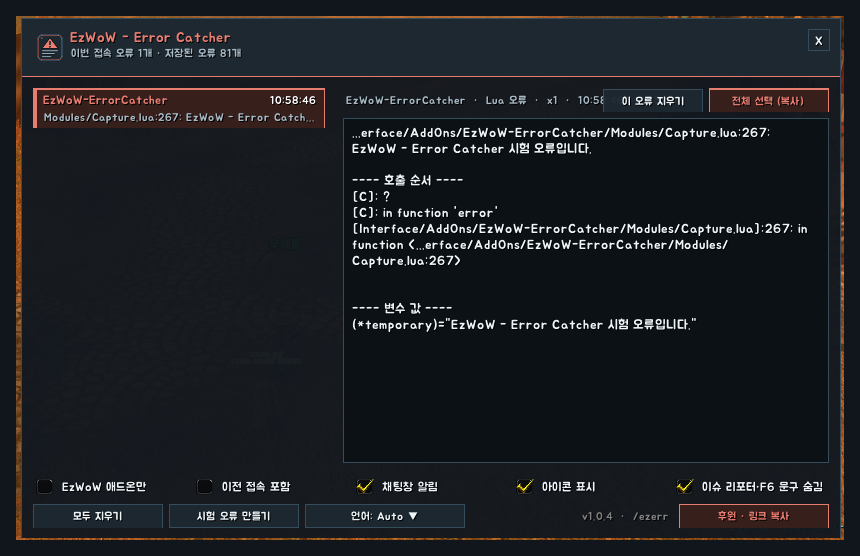
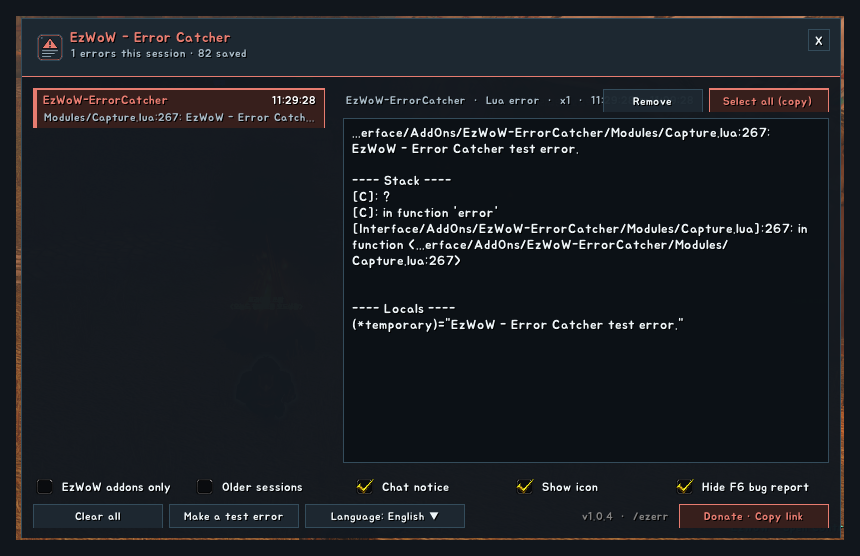
영어 설명용 게임 화면 추가

diff --git a/README.md b/README.md
@@ -37,7 +37,7 @@ Collects Lua errors, blocked addon actions and warnings in a window you can copy
 
 ![Error window](https://raw.githubusercontent.com/qqhrqqhr2/EzWoW-ErrorCatcher/master/docs/images/ui_en.png)
 
-> In-game screenshots (WoW Forever, Korean client). Character and player names and chat text are blurred.
+> In-game screenshots with the addon set to English. The game client is Korean, so game text such as zone, item and spell names stays Korean. Character and player names and chat text are blurred.
 
 - A one-line chat notice (at most every 5 seconds, with the number held back meanwhile) and a counter on the icon when something breaks. Errors in combat are announced once combat ends, so the chat is left alone while fighting.
 - Repeated errors are grouped with a count (x12) and the last time. Errors from older sessions also show the date (`11/05 22:41:10`).

diff --git a/docs/curseforge_description.md b/docs/curseforge_description.md
@@ -11,7 +11,7 @@ An error window for WoW Forever. Lua errors, blocked addon actions and warnings 
 
 ![Error window](https://raw.githubusercontent.com/qqhrqqhr2/EzWoW-ErrorCatcher/master/docs/images/ui_en.png)
 
-*In-game screenshots (WoW Forever, Korean client). Character and player names and chat text are blurred.*
+*In-game screenshots with the addon set to English. The game client is Korean, so game text such as zone, item and spell names stays Korean. Character and player names and chat text are blurred.*
 
 ## Features
 
